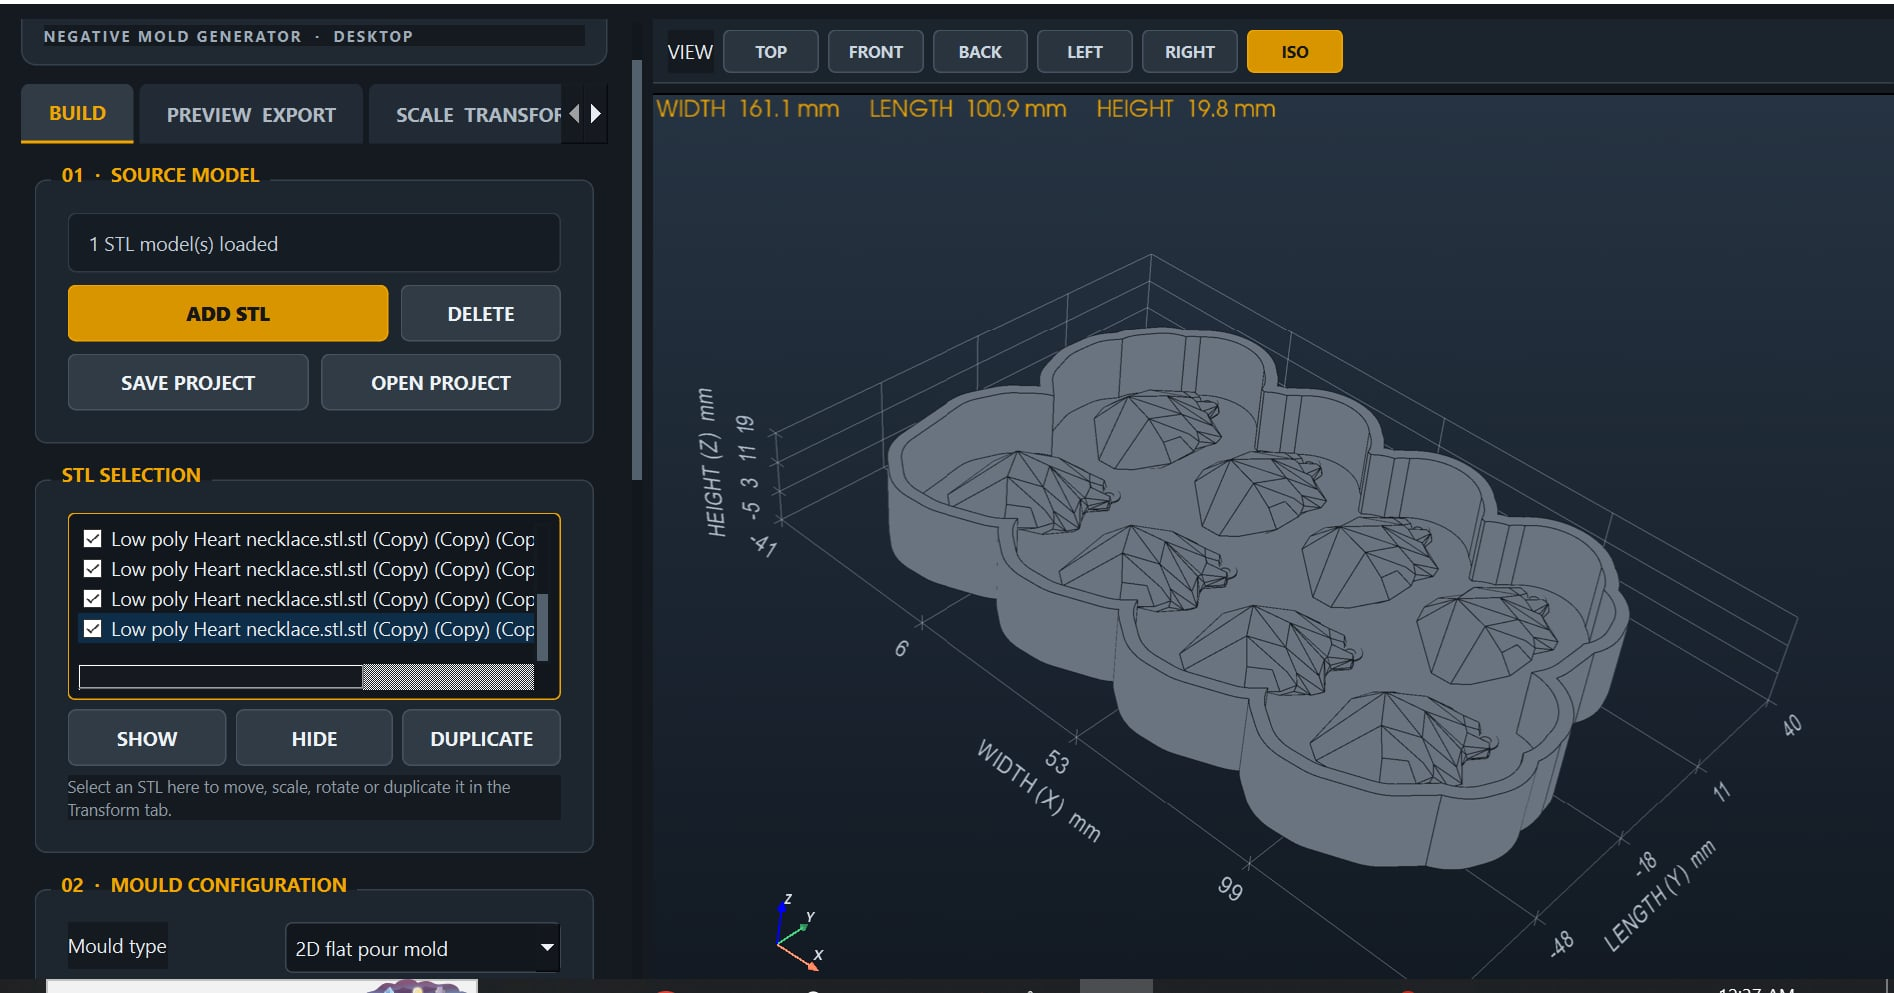
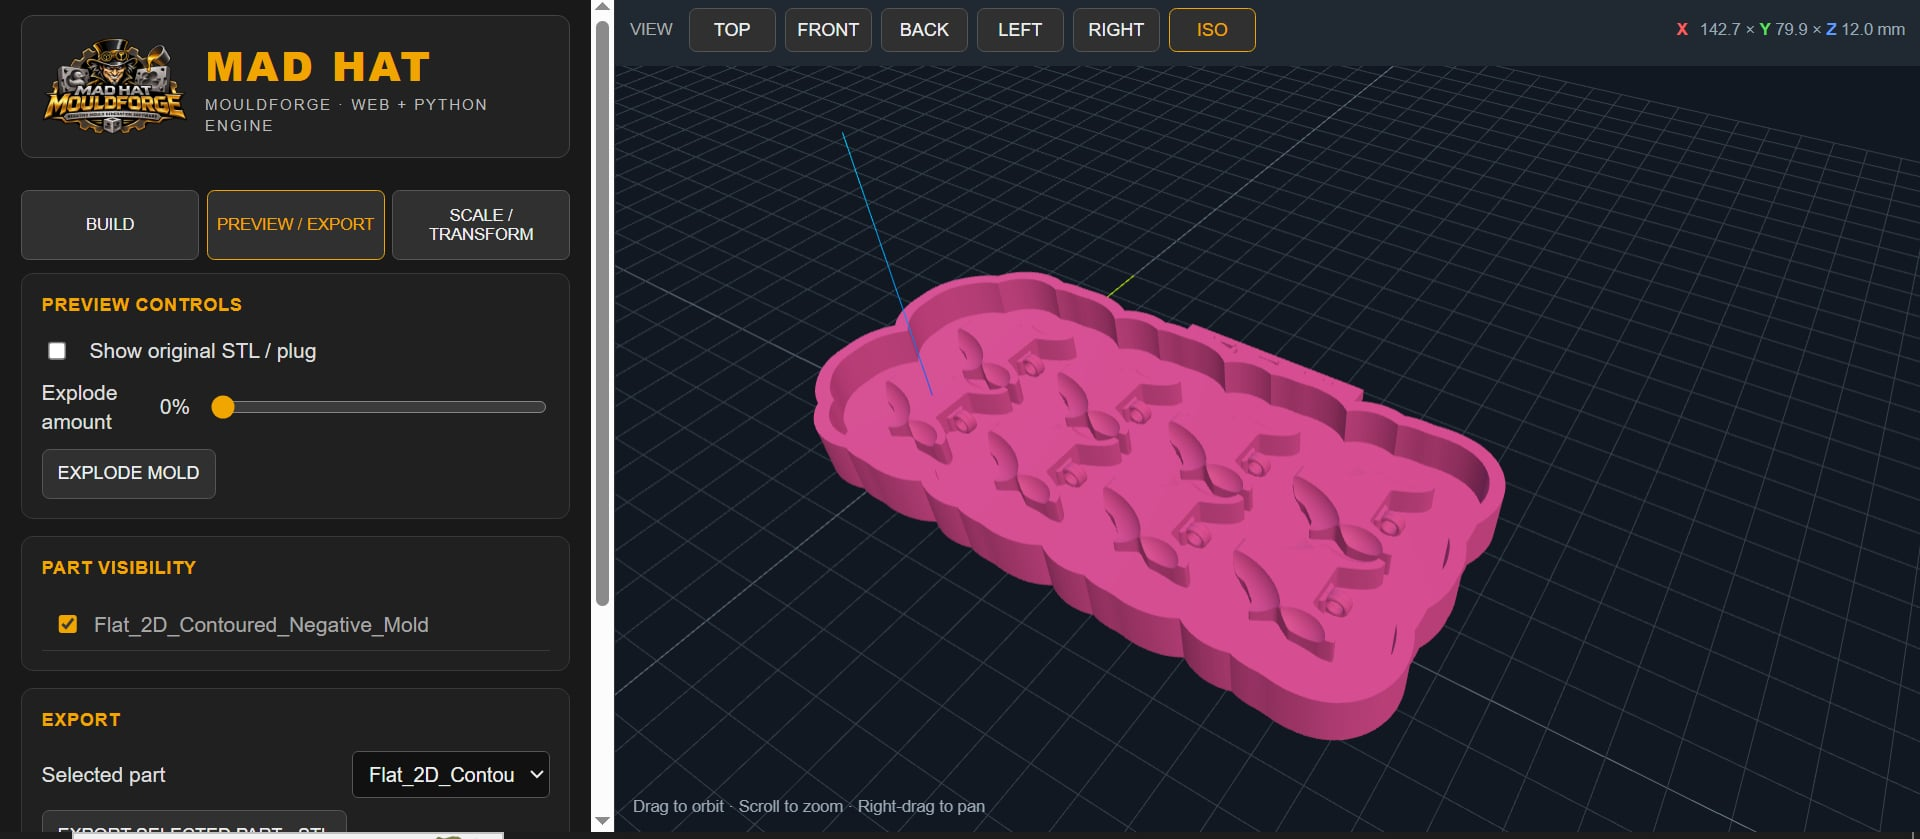
Update readme

diff --git a/README.md b/README.md
@@ -1,6 +1,7 @@
 ![Screenshot](Assets/Capture.PNG)
 ![Screenshot](Assets/Capture1.PNG)
-
+![Screenshot](Assets/Capture2.PNG)
+![Screenshot](Assets/Capture3.PNG)
 
 MAD HAT — NEGATIVE MOLD GENERATOR (WEB INTERFACE + PYTHON GEOMETRY ENGINE)
 ============================================================================
